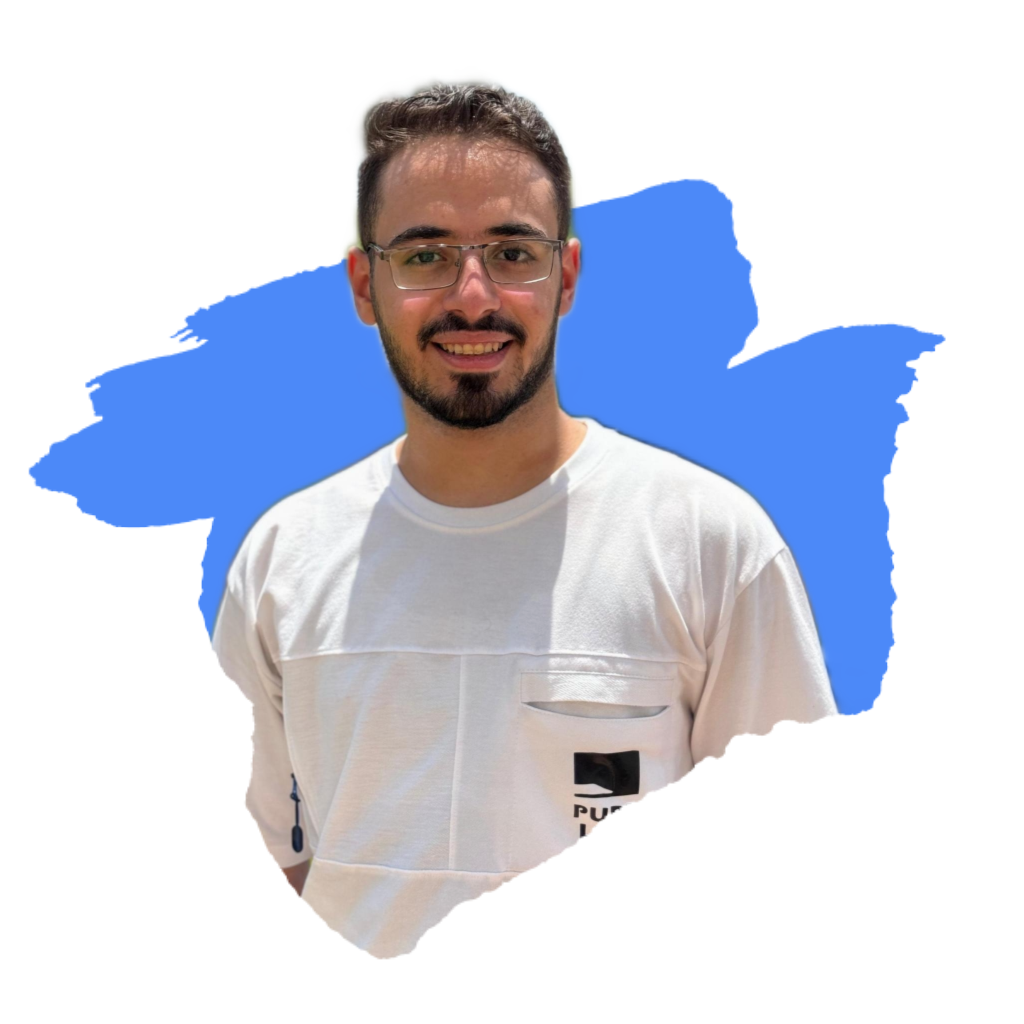
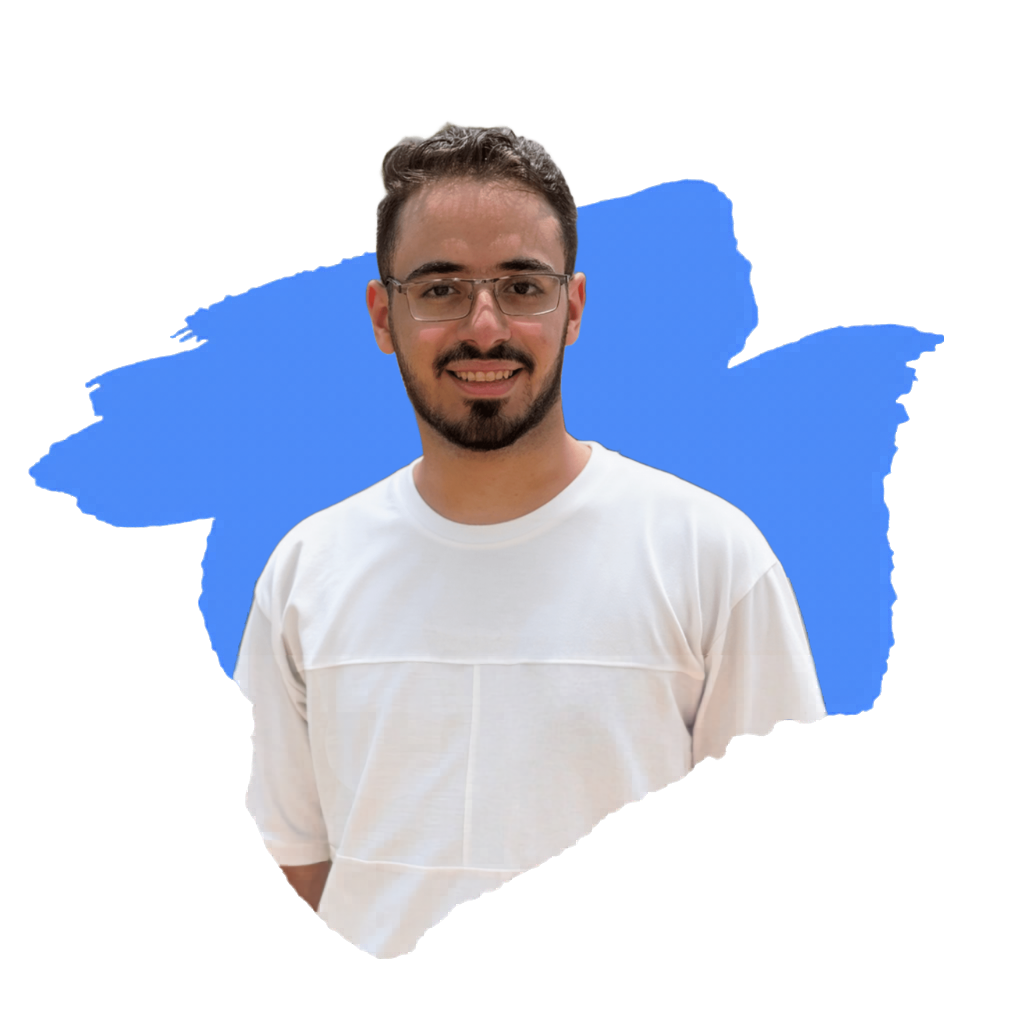
new

Changed region(s): [[0.1875, 0.0625, 0.8438, 0.9375]]

diff --git a/style.css b/style.css
@@ -85,6 +85,11 @@ html {
   --shadow-sm: 0 2px 8px rgba(0, 0, 0, 0.3);
   --shadow-md: 0 8px 32px rgba(0, 0, 0, 0.45);
   --shadow-lg: 0 20px 60px rgba(0, 0, 0, 0.55);
+
+  /* Header / Navigation */
+  --header-bg: rgba(6, 11, 24, 0.92);
+  --header-border: rgba(0, 229, 255, 0.12);
+  --nav-menu-bg: rgba(6, 11, 24, 0.95);
 }
 
 /* ── Light Theme ── */
@@ -112,6 +117,11 @@ html {
   --shadow-sm: 0 2px 8px rgba(0, 0, 0, 0.08);
   --shadow-md: 0 8px 32px rgba(0, 0, 0, 0.10);
   --shadow-lg: 0 20px 60px rgba(0, 0, 0, 0.12);
+
+  /* Header / Navigation */
+  --header-bg: rgba(245, 247, 252, 0.92);
+  --header-border: rgba(0, 100, 160, 0.12);
+  --nav-menu-bg: rgba(245, 247, 252, 0.95);
 }
 
 /* ── Base Styles ── */
@@ -266,16 +276,17 @@ a {
   height: 68px;
   z-index: 1000;
 
-  background: rgba(6, 11, 24, 0.92);
+  background: var(--header-bg);
   backdrop-filter: blur(20px);
-  border-bottom: 1px solid rgba(0, 229, 255, 0.12);
+  -webkit-backdrop-filter: blur(20px);
+  border-bottom: 1px solid var(--header-border);
 
   transition: all 0.3s ease;
 }
 
 .site-header.scrolled {
-  background: rgba(6, 11, 24, 0.92);
-  border-bottom: 1px solid rgba(0, 229, 255, 0.12);
+  background: var(--header-bg);
+  border-bottom: 1px solid var(--header-border);
 }
 
 .nav {
@@ -305,7 +316,7 @@ a {
 .logo-mark {
   font-weight: 800;
   font-size: 1.3rem;
-  background: linear-gradient(135deg, #00E5FF, #B08CFE);
+  background: linear-gradient(135deg, var(--cyan), var(--violet));
   -webkit-background-clip: text;
   -webkit-text-fill-color: transparent;
 }
@@ -320,9 +331,9 @@ a {
 .logo-dot {
   width: 6px;
   height: 6px;
-  background: #FFB347;
+  background: var(--amber);
   border-radius: 50%;
-  box-shadow: 0 0 10px #FFB347;
+  box-shadow: 0 0 10px var(--amber);
 }
 
 /* Nav Menu */
@@ -345,7 +356,7 @@ a {
     justify-content: center;
     align-items: center;
 
-    background: rgba(6, 11, 24, 0.95);
+    background: var(--nav-menu-bg);
     backdrop-filter: blur(25px);
 
     transform: translateX(100%);
@@ -368,20 +379,20 @@ a {
 
 .nav-link {
   font-size: 0.85rem;
-  color: #8A9BBE;
+  color: var(--text-2);
   padding: 6px 10px;
   border-radius: 8px;
   transition: 0.25s;
 }
 
 .nav-link:hover {
-  color: white;
-  background: rgba(255, 255, 255, 0.06);
+  color: var(--text);
+  background: var(--surface);
 }
 
 .nav-link.active {
-  color: #00E5FF;
-  background: rgba(0, 229, 255, 0.08);
+  color: var(--cyan);
+  background: var(--cyan-dim);
 }
 
 .nav-actions {
@@ -392,16 +403,16 @@ a {
 
 .nav-cta {
   padding: 6px 14px;
-  border: 1px solid rgba(0, 229, 255, 0.3);
+  border: 1px solid var(--border-2);
   border-radius: 8px;
-  color: #00E5FF;
+  color: var(--cyan);
   font-size: 0.8rem;
   transition: 0.3s;
 }
 
 .nav-cta:hover {
-  background: rgba(0, 229, 255, 0.15);
-  box-shadow: 0 0 20px rgba(0, 229, 255, 0.2);
+  background: var(--cyan-dim);
+  box-shadow: var(--glow-cyan);
 }
 
 .theme-toggle {
@@ -455,7 +466,7 @@ a {
 .hamburger span {
   width: 22px;
   height: 2px;
-  background: #8A9BBE;
+  background: var(--text-2);
   transition: 0.3s;
 }
 
@@ -478,7 +489,7 @@ a {
     left: 0;
     right: 0;
     bottom: 0;
-    background: rgba(6, 11, 24, 0.97);
+    background: var(--nav-menu-bg);
     backdrop-filter: blur(24px);
     -webkit-backdrop-filter: blur(24px);
     flex-direction: column;
@@ -488,10 +499,6 @@ a {
     transform: translateX(100%);
     transition: transform var(--dur-slow) var(--ease);
     z-index: 999;
-  }
-
-  [data-theme="light"] .nav-menu {
-    background: rgba(245, 247, 252, 0.98);
   }
 
   .nav-menu.open {
@@ -883,7 +890,7 @@ a {
 }
 
 .hero-tagline {
-  font-size: clamp(1rem, 2.2vw, 1.2rem);
+  font-size: clamp(1.1rem, 2.5vw, 1.35rem);
   color: var(--text-2);
   font-weight: 300;
   line-height: 1.65;
@@ -1199,7 +1206,7 @@ a {
   color: var(--text-2);
   line-height: 1.8;
   margin-bottom: var(--sp-3);
-  font-size: 0.975rem;
+  font-size: 1.08rem;
 }
 
 .about-text p strong {
@@ -1424,7 +1431,7 @@ a {
 .exp-role {
   font-family: var(--font-display);
   font-weight: 700;
-  font-size: 1.1rem;
+  font-size: 1.22rem;
   color: var(--text);
   margin-bottom: 4px;
 }
@@ -1469,7 +1476,7 @@ a {
   gap: 10px;
   padding: 8px 0;
   border-bottom: 1px solid var(--border);
-  font-size: 0.875rem;
+  font-size: 0.95rem;
   color: var(--text-2);
   line-height: 1.55;
 }
@@ -1622,14 +1629,14 @@ a {
 .proj-title {
   font-family: var(--font-display);
   font-weight: 700;
-  font-size: 1.08rem;
+  font-size: 1.2rem;
   color: var(--text);
   margin-bottom: var(--sp-2);
   line-height: 1.3;
 }
 
 .proj-desc {
-  font-size: 0.855rem;
+  font-size: 0.94rem;
   color: var(--text-2);
   line-height: 1.65;
   margin-bottom: var(--sp-2);
@@ -1854,7 +1861,7 @@ a {
 .edu-degree {
   font-family: var(--font-display);
   font-weight: 700;
-  font-size: 1.1rem;
+  font-size: 1.22rem;
   color: var(--text);
   margin-bottom: 6px;
   line-height: 1.3;
@@ -1867,7 +1874,7 @@ a {
 
 .edu-desc {
   color: var(--text-2);
-  font-size: 0.875rem;
+  font-size: 0.95rem;
   line-height: 1.7;
   margin-bottom: var(--sp-4);
 }

diff --git a/script.js b/script.js
@@ -13,8 +13,7 @@ function initTheme() {
   const html = document.documentElement;
   const toggle = $('#theme-toggle');
   const stored = localStorage.getItem('portfolio-theme');
-  const prefer = window.matchMedia('(prefers-color-scheme: light)').matches ? 'light' : 'dark';
-  const theme = stored || prefer;
+  const theme = stored || 'dark';
 
   html.setAttribute('data-theme', theme);
 
